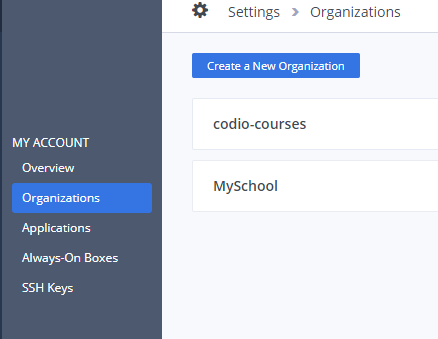
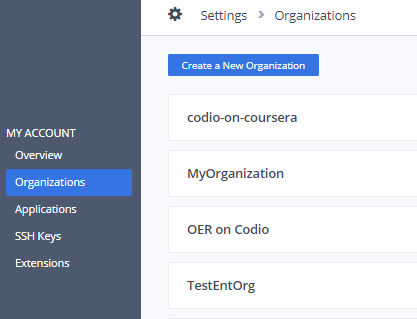
AOB removal (#306)

diff --git a/source/instructors/admin/organization/organisation.rst b/source/instructors/admin/organization/organisation.rst
@@ -71,23 +71,16 @@ To access the **Organizations** page, follow these steps:
 
 2. In the **Organizations** area, click the name of your organization.
 
-   .. image:: /img/class_administration/addteachers/myschoolorg.png
-      :alt: My Organizations
 
-   The Admin options are displayed on the LH bar of the page.
+   The Admin options are displayed on the LH bar of the page:
 
-   .. image:: /img/manage_organization/orgtabs.png 
-      :alt: Organization Page
-
-
-  - **Overview** - Update organization profile, enable or disable the ability to create public objects, enable or disable Codio support access,  obtain invitation token, manage education settings, and delete the organization.
-  - **Members** - View, add, and remove users in your organization and invite teachers to the organization.
-  - **Always-On Boxes** - View the number of always-on boxes you currently have in your organization.
-  - **Billing** - View your Codio plan information.
-  - **Rubrics** - Create and manage your grading templates.
-  - **Dashboard** - Specify the Student Dashboard default page (My Projects or Courses), and specify whether to hide/show Courses.
-  - **IP Consent** - Enable or disable IP Consent and manage the versions.
-  - **Custom Scripts** - Manage custom scripts used to integrate third-party systems to help and track students.
-  - **LTI Integrations** - Specify and manage LTI integration settings.
-  - **Integrations** - Specify API key for Sense.Network integration, and add other API integrations.
-  - **Assessment Libraries** - Create and manage assessment libraries for your organization.
+    - **Overview** - Update organization profile, enable or disable the ability to create public objects, enable or disable Codio support access,  obtain invitation token, manage education settings, and delete the organization.
+    - **Members** - View, add, and remove users in your organization and invite teachers to the organization.
+    - **Billing** - View your Codio plan information.
+    - **Rubrics** - Create and manage your grading templates.
+    - **Dashboard** - Specify the Student Dashboard default page (My Projects or Courses), and specify whether to hide/show Courses.
+    - **IP Consent** - Enable or disable IP Consent and manage the versions.
+    - **Custom Scripts** - Manage custom scripts used to integrate third-party systems to help and track students.
+    - **LTI Integrations** - Specify and manage LTI integration settings.
+    - **Integrations** - Specify API key for Sense.Network integration, and add other API integrations.
+    - **Assessment Libraries** - Create and manage assessment libraries for your organization.

diff --git a/source/common/develop/projects/project-settings.rst b/source/common/develop/projects/project-settings.rst
@@ -10,7 +10,6 @@ The Settings page within a project includes various options for specifying setti
 - Project Name and Description
 - Public or Private Project
 - Allow Box Cloning (payment required)
-- Always-On Box (see :ref:`Always on Boxes <always on boxes>`)
 - Allow Private Static Preview. See :ref:`Preview <preview>` for more information. This setting is only available from **Project > Settings**.
 - Protect Dynamic Ports. Enable to restrict preview to the owner of the box; disable to allow preview of the box to anyone who knows the box url. This setting is only available from **Project > Settings**.
 - Stack Settings - specify current stack and version used in your project.

diff --git a/source/common/develop/ide/boxes/overview.rst b/source/common/develop/ide/boxes/overview.rst
@@ -13,7 +13,6 @@ IDE Box Overview
    ide-access-permissions
    terminal
    ext-access
-   always-on
    restart-reset
    runmenu
    startup
